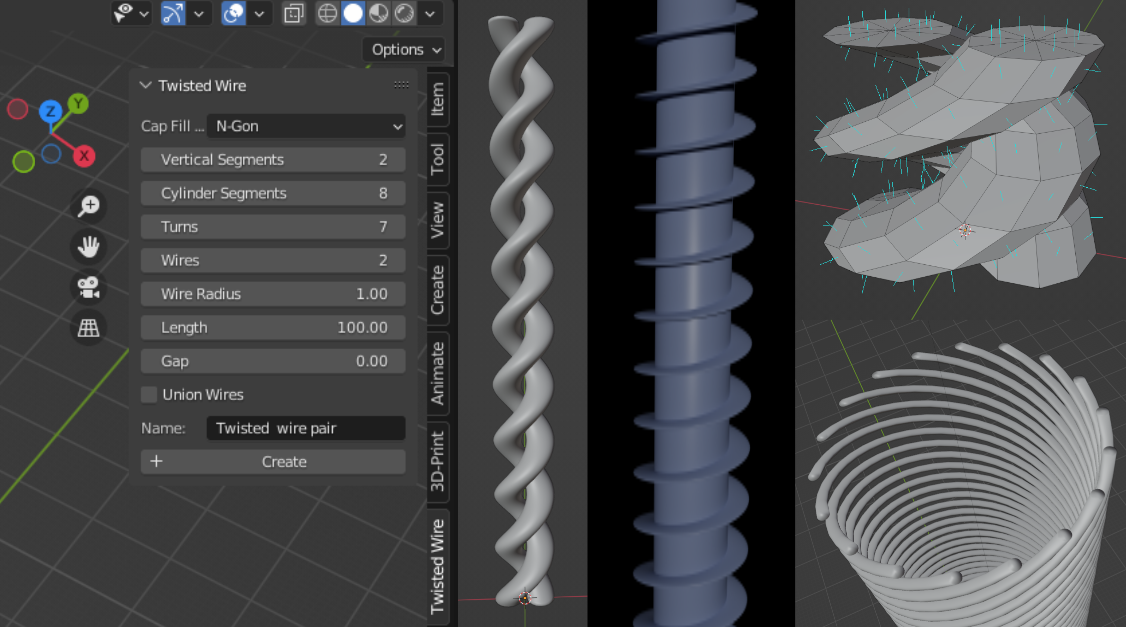
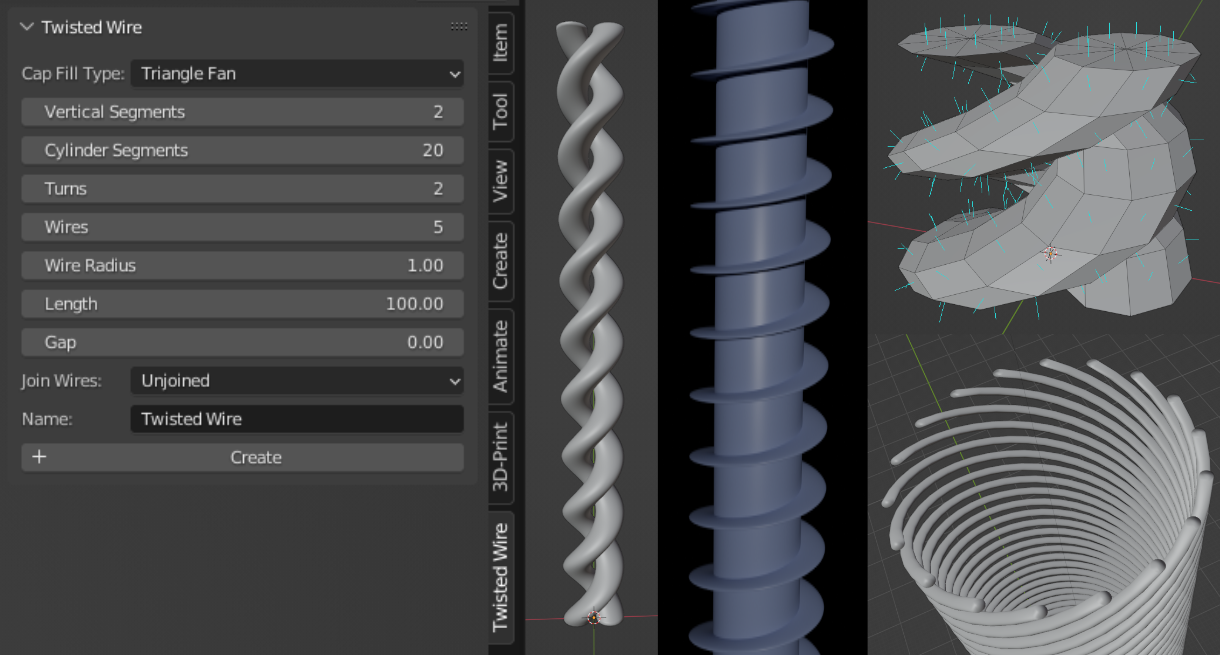
join wires by join method or boolean union

diff --git a/Twisted Wire/twisted_wire.py b/Twisted Wire/twisted_wire.py
@@ -44,7 +44,6 @@ def create_wire(cap_fill, vert_segs, cyl_segs, turns, radius, length, gap, name,
     wire = []
 
     for i in range(int(segs)+1): # gather vertices
-
         x_pos = mag * math.cos(theta)
         y_pos = mag * math.sin(theta)
 
@@ -65,13 +64,10 @@ def create_wire(cap_fill, vert_segs, cyl_segs, turns, radius, length, gap, name,
 
     # tesselate
     if hasattr(bm.verts, "ensure_lookup_table"):
-
         bm.verts.ensure_lookup_table()
 
         if cap_fill == '0':
-
             for v in range(cyl_segs): # bottom cap
-
                 if v == (cyl_segs - 1):
                     bm.faces.new((  bm.verts[1],
                                     bm.verts[v + 1],
@@ -95,7 +91,6 @@ def create_wire(cap_fill, vert_segs, cyl_segs, turns, radius, length, gap, name,
                                     bm.verts[wire_vert_count + v + 1]))
 
         elif cap_fill == '1': # cap is N-gon
-
             tmp_verts = [] # bottom cap
             for vert in range(cyl_segs, 0, -1):
                 tmp_verts.append(bm.verts[vert])
@@ -105,8 +100,9 @@ def create_wire(cap_fill, vert_segs, cyl_segs, turns, radius, length, gap, name,
             start_v = end_v - cyl_segs
             bm.faces.new(bm.verts[start_v : end_v])
 
-        for i in range(int(segs)): # first wire
+        for i in range(int(segs)): # spiral faces
             offset = i * cyl_segs
+
             if cap_fill == '0':
                 offset += 1
 
@@ -135,7 +131,14 @@ def twisted_wire_set(cap_fill, vert_segs, cyl_segs, turns, wires, radius, length
         theta_start += angle_delta
         b_objs.append(create_wire(cap_fill, vert_segs, cyl_segs, turns, radius, length, gap, name, theta_start))
 
-    if union:
+    if union == '1': # blender object join
+        bpy.context.view_layer.objects.active = b_objs[0]
+        bpy.ops.object.select_all(action="DESELECT")
+        for b_obj in b_objs:
+            b_obj.select_set(True)
+        bpy.ops.object.join()
+
+    elif union == '2': # boolean union join
         for index, b_obj in enumerate(b_objs):
             if index:
                 boolean_union(b_objs[0], b_obj)

diff --git a/Twisted Wire/ui.py b/Twisted Wire/ui.py
@@ -60,10 +60,13 @@ class Twisted_Wire_Settings(bpy.types.PropertyGroup):
         min=0.1, max=1000.0,
     )
 
-    union: bpy.props.BoolProperty(
-        name="Union Option",
-        default=False
-        )
+    union : bpy.props.EnumProperty(
+                name = "Join method",
+                description = "Join method",
+                items= [('0', 'Unjoined', ''),
+                        ('1', 'Joined', ''),
+                        ('2', 'Boolean union', '')]
+    )
 
     name: bpy.props.StringProperty(
         name="Wire Name",
@@ -108,7 +111,7 @@ class TwistedWire_PT(bpy.types.Panel):
         col.prop(scene, 'gap', text='Gap')
 
         col = layout.column(align=True)
-        col.prop(scene, 'union', text='Union Wires')
+        col.prop(scene, 'union', text='Join Wires')
 
         col = layout.column(align=True)
         col.prop(scene, 'name', text='Name')

diff --git a/README.md b/README.md
@@ -1,5 +1,5 @@
 # blender-twisted-wire
-* options for cap type, vertical segments, cylinder segments, turns, wires, wire radius, length of wires, gap (distance from wire to center of rotation), object name and ability to boolean union objects
+* options for cap type, vertical segments, cylinder segments, turns, wires, wire radius, length of wires, gap (distance from wire to center of rotation), object name and ability to join or boolean union wires
 
 ### Installation:
 * To install zip the directory "Twisted Wire" and install the addon via preferences menu
